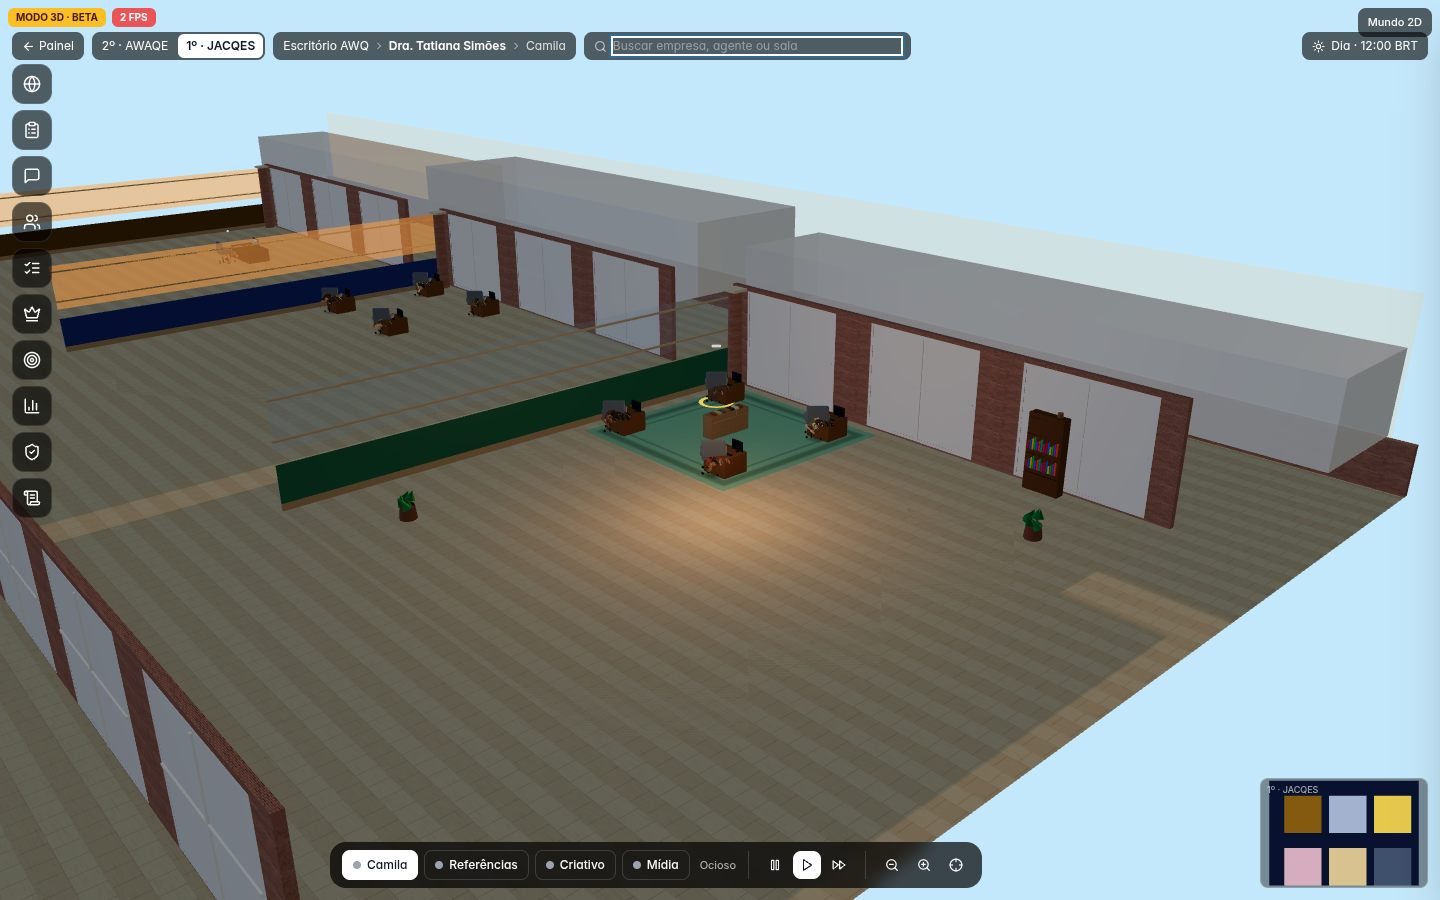
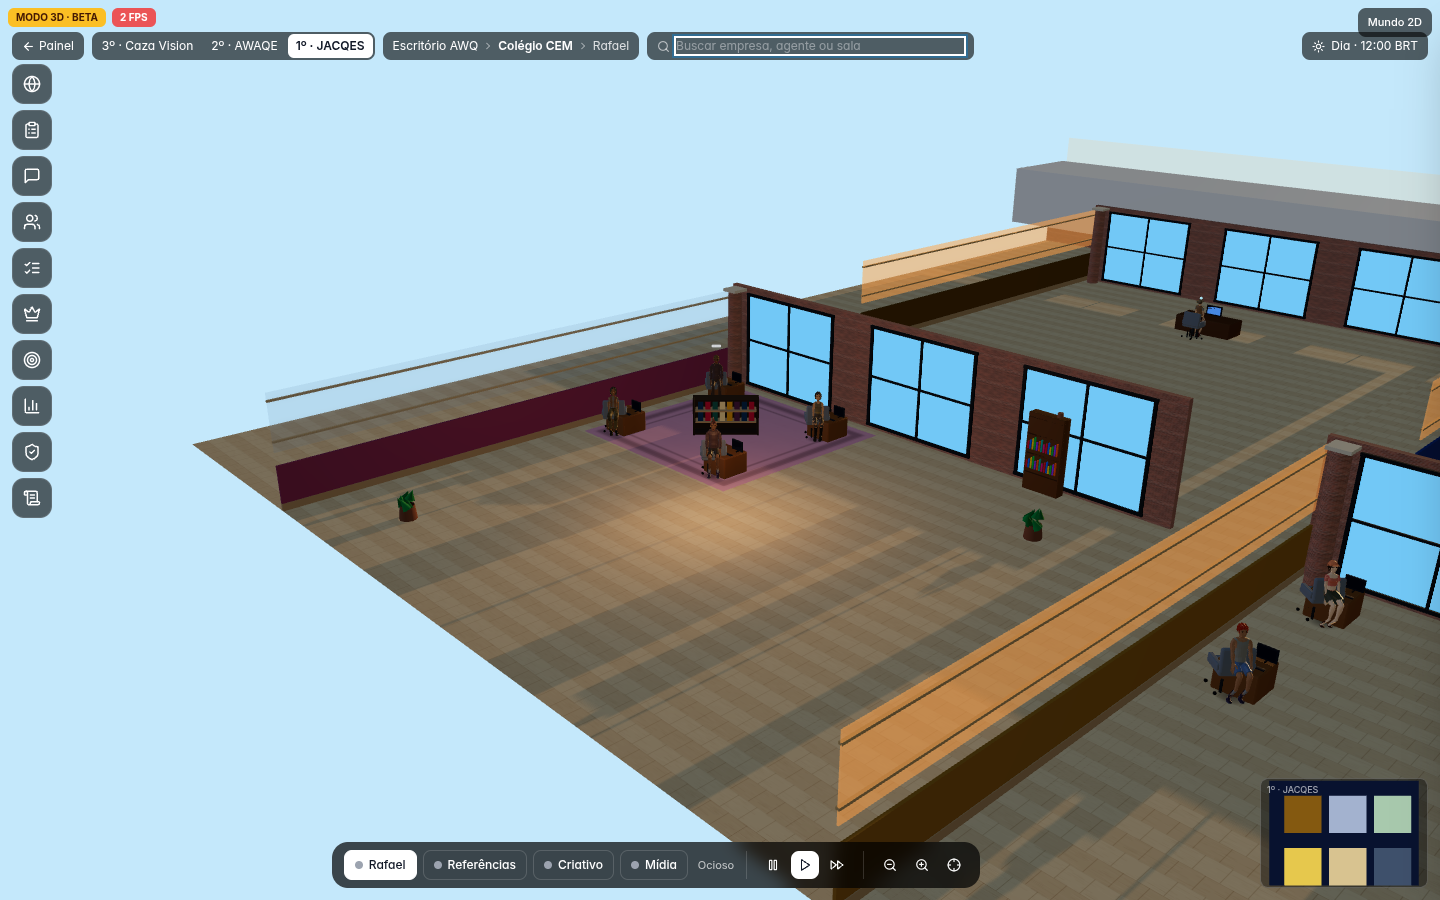
fix(office): furos com alphaTest, vidro âmbar e degradê no entardecer
A pele perfurada descarta o alfa no teste e na sombra. Às 19h o vidro da sala fica âmbar sem tone mapping, e o céu vai do azul ao âmbar em vez de um azul chapado.

diff --git a/components/office/OfficeGame3D.tsx b/components/office/OfficeGame3D.tsx
@@ -632,7 +632,6 @@ function Sala({
    * peças decorativas mais caras (estante, plantas, tapete) — continuam reconhecíveis (piso,
    * paredes, mesas, personagens), só sem o acabamento fino que só compensa de perto. */
   detalhado: boolean;
-  hora: number;
   onEntrar: () => void;
   onSelecionar: (a: Agente) => void;
 }) {
@@ -1124,6 +1123,41 @@ function ceuEntardecer(hora: number): { topo: string; base: string } {
   return { topo: `#${topo.getHexString()}`, base: `#${base.getHexString()}` };
 }
 
+function texturaDegrade(topo: string, base: string): THREE.CanvasTexture {
+  const c = document.createElement("canvas");
+  c.width = 8;
+  c.height = 256;
+  const g = c.getContext("2d")!;
+  const grad = g.createLinearGradient(0, 0, 0, 256);
+  grad.addColorStop(0, topo);
+  grad.addColorStop(0.45, topo);
+  grad.addColorStop(1, base);
+  g.fillStyle = grad;
+  g.fillRect(0, 0, 8, 256);
+  const t = new THREE.CanvasTexture(c);
+  t.colorSpace = THREE.SRGBColorSpace;
+  t.needsUpdate = true;
+  return t;
+}
+
+/** Painel atrás da cidade, de frente para a câmera, para o entardecer não ser um azul chapado. */
+function CeuPainel({ hora }: { hora: number }) {
+  const ceuAtual = ceuEntardecer(hora);
+  const tex = useMemo(() => texturaDegrade(ceuAtual.topo, ceuAtual.base), [ceuAtual.topo, ceuAtual.base]);
+  useEffect(() => () => tex.dispose(), [tex]);
+  const ref = useRef<THREE.Mesh>(null);
+  useEffect(() => {
+    const camera = new THREE.Vector3(22, 16, 16).addScaledVector(DIRECAO_CAM, 30);
+    ref.current?.lookAt(camera);
+  }, [tex]);
+  return (
+    <mesh ref={ref} position={[22 - DIRECAO_CAM.x * 90, 16, 16 - DIRECAO_CAM.z * 90]} renderOrder={-1}>
+      <planeGeometry args={[260, 120]} />
+      <meshBasicMaterial map={tex} toneMapped={false} depthWrite={false} side={THREE.DoubleSide} />
+    </mesh>
+  );
+}
+
 function Iluminacao({ hora }: { hora: number }) {
   const l = luzDoDia(hora);
   const ceuAtual = ceuEntardecer(hora);
@@ -1134,7 +1168,8 @@ function Iluminacao({ hora }: { hora: number }) {
   }, []);
   return (
     <>
-      <color attach="background" args={[ceuAtual.base]} />
+      <color attach="background" args={[ceuAtual.topo]} />
+      <CeuPainel hora={hora} />
       <hemisphereLight args={[ceuAtual.topo, "#c4a882", 0.08 + l * 0.18]} />
       {/* De dia (luzDoDia = 1) fica em 0.38, acima de 0.35. À noite volta para 0.08. */}
       <ambientLight intensity={0.08 + l * 0.30} />
